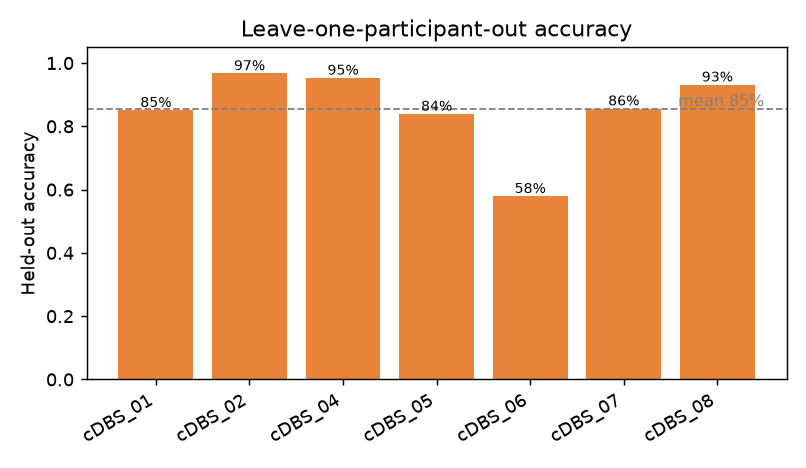
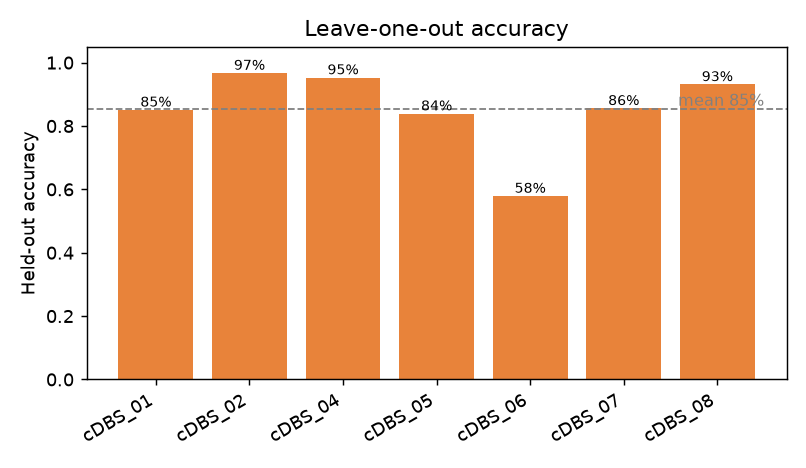
Solved small bug, Readme update, AUC details adjusted

diff --git a/ml/make_figures.py b/ml/make_figures.py
@@ -8,13 +8,14 @@ Generate model-statistics figures for the README. Run AFTER train.py:
     ml/.venv/bin/python ml/make_figures.py
 
 Produces (in ml/figures/):
-  - confusion_matrix.png      pooled leave-one-participant-out (LOPO) confusion
+  - confusion_matrix.png      pooled leave-one-out (LOO) confusion
   - per_participant_accuracy.png
-  - roc_curve.png             pooled LOPO ROC + AUC
+  - roc_curve.png             pooled LOO ROC + AUC with a 95% bootstrap CI band
   - feature_importances.png   RandomForest importances (model trained on all data)
 
-LOPO = the realistic "new patient" evaluation: each participant is held out in
-turn, the model trains on the rest, and predictions are pooled.
+LOO = leave-one-out cross-validation: each participant is held out in turn, the
+model trains on the rest, and predictions are pooled. This reflects the realistic
+"new patient" scenario.
 """
 
 import os
@@ -23,7 +24,7 @@ import matplotlib
 
 matplotlib.use("Agg")  # headless
 import matplotlib.pyplot as plt
-from sklearn.metrics import confusion_matrix, accuracy_score, roc_curve, auc
+from sklearn.metrics import confusion_matrix, accuracy_score, roc_curve, auc, roc_auc_score
 
 # Reuse the exact data loader + model from the training script.
 from train import load, make_model, LABELS
@@ -31,13 +32,15 @@ from train import load, make_model, LABELS
 HERE = os.path.dirname(__file__)
 FIG_DIR = os.path.join(HERE, "figures")
 
-TREMOR_IDX = LABELS.index("tremor")
 ACCENT = "#E8833A"   # tremor (orange, matches the app)
 REST = "#3FA34D"     # rest (green, matches the app)
 
+N_BOOTSTRAP = 2000
+RNG = np.random.default_rng(42)
 
-def run_lopo(X, y, groups):
-    """Pooled LOPO predictions, probabilities, and per-participant accuracy."""
+
+def run_loo(X, y, groups):
+    """Pooled leave-one-out predictions, probabilities, and per-participant acc."""
     true, pred, prob = [], [], []
     per_participant = {}
     for pid in sorted(np.unique(groups)):
@@ -51,6 +54,21 @@ def run_lopo(X, y, groups):
     return np.array(true), np.array(pred), np.array(prob), per_participant
 
 
+def auc_with_ci(y_bin, prob):
+    """Point AUC plus a percentile bootstrap 95% confidence interval."""
+    point = roc_auc_score(y_bin, prob)
+    n = len(y_bin)
+    scores = []
+    for _ in range(N_BOOTSTRAP):
+        idx = RNG.integers(0, n, n)
+        # Skip degenerate resamples that contain a single class.
+        if len(np.unique(y_bin[idx])) < 2:
+            continue
+        scores.append(roc_auc_score(y_bin[idx], prob[idx]))
+    lo, hi = np.percentile(scores, [2.5, 97.5])
+    return point, lo, hi
+
+
 def fig_confusion(true, pred):
     cm = confusion_matrix(true, pred, labels=LABELS)
     cm_norm = cm / cm.sum(axis=1, keepdims=True)
@@ -59,7 +77,7 @@ def fig_confusion(true, pred):
     ax.set_xticks(range(len(LABELS)), LABELS)
     ax.set_yticks(range(len(LABELS)), LABELS)
     ax.set_xlabel("Predicted"); ax.set_ylabel("True")
-    ax.set_title("Confusion matrix (pooled LOPO)")
+    ax.set_title("Confusion matrix (pooled LOO)")
     for i in range(len(LABELS)):
         for j in range(len(LABELS)):
             ax.text(j, i, f"{cm[i, j]}\n{cm_norm[i, j]:.0%}",
@@ -79,7 +97,7 @@ def fig_per_participant(per_participant):
     ax.text(len(pids) - 0.5, mean + 0.01, f"mean {mean:.0%}",
             ha="right", color="gray", fontsize=9)
     ax.set_ylim(0, 1.05); ax.set_ylabel("Held-out accuracy")
-    ax.set_title("Leave-one-participant-out accuracy")
+    ax.set_title("Leave-one-out accuracy")
     for b, a in zip(bars, accs):
         ax.text(b.get_x() + b.get_width() / 2, a + 0.01, f"{a:.0%}",
                 ha="center", fontsize=8)
@@ -90,14 +108,34 @@ def fig_per_participant(per_participant):
 def fig_roc(true, prob):
     y_bin = (true == "tremor").astype(int)
     fpr, tpr, _ = roc_curve(y_bin, prob)
-    roc_auc = auc(fpr, tpr)
-    fig, ax = plt.subplots(figsize=(4.4, 4.0))
-    ax.plot(fpr, tpr, color=ACCENT, lw=2, label=f"AUC = {roc_auc:.3f}")
+    point, lo, hi = auc_with_ci(y_bin, prob)
+
+    # Bootstrap a confidence band for the ROC curve itself.
+    mean_fpr = np.linspace(0, 1, 100)
+    n = len(y_bin)
+    tprs = []
+    for _ in range(N_BOOTSTRAP):
+        idx = RNG.integers(0, n, n)
+        if len(np.unique(y_bin[idx])) < 2:
+            continue
+        bf, bt, _ = roc_curve(y_bin[idx], prob[idx])
+        interp = np.interp(mean_fpr, bf, bt)
+        interp[0] = 0.0
+        tprs.append(interp)
+    tpr_lo = np.percentile(tprs, 2.5, axis=0)
+    tpr_hi = np.percentile(tprs, 97.5, axis=0)
+
+    fig, ax = plt.subplots(figsize=(4.6, 4.2))
+    ax.fill_between(mean_fpr, tpr_lo, tpr_hi, color=ACCENT, alpha=0.25,
+                    label="95% CI")
+    ax.plot(fpr, tpr, color=ACCENT, lw=2,
+            label=f"AUC = {point:.3f}\n(95% CI {lo:.3f}–{hi:.3f})")
     ax.plot([0, 1], [0, 1], ls="--", color="gray", lw=1)
     ax.set_xlabel("False positive rate"); ax.set_ylabel("True positive rate")
-    ax.set_title("ROC — tremor vs rest (pooled LOPO)")
-    ax.legend(loc="lower right")
+    ax.set_title("ROC — tremor vs rest (pooled LOO)")
+    ax.legend(loc="lower right", fontsize=9)
     _save(fig, "roc_curve.png")
+    return point, lo, hi
 
 
 def fig_importances(X, y, feat_cols):
@@ -126,13 +164,14 @@ def _save(fig, name):
 def main():
     os.makedirs(FIG_DIR, exist_ok=True)
     _, X, y, groups, feat_cols = load()
-    print("Running LOPO for figures ...")
-    true, pred, prob, per_participant = run_lopo(X, y, groups)
+    print("Running LOO for figures ...")
+    true, pred, prob, per_participant = run_loo(X, y, groups)
     fig_confusion(true, pred)
     fig_per_participant(per_participant)
-    fig_roc(true, prob)
+    point, lo, hi = fig_roc(true, prob)
     fig_importances(X, y, feat_cols)
-    print(f"\nPooled LOPO accuracy: {accuracy_score(true, pred):.3f}")
+    print(f"\nPooled LOO accuracy: {accuracy_score(true, pred):.3f}")
+    print(f"Pooled LOO AUC:      {point:.3f} (95% CI {lo:.3f}–{hi:.3f})")
 
 
 if __name__ == "__main__":

diff --git a/ml/train.py b/ml/train.py
@@ -4,10 +4,10 @@ train.py
 Train a tremor-vs-rest classifier on the windowed features produced by
 prepare_data.py, then export it as a Core ML model for the watchOS app.
 
-Evaluation: Leave-One-Participant-Out (LOPO) cross-validation. Windows from the
-same person (and from the two wrists of that person) are correlated, so a random
-split would leak and inflate accuracy. LOPO reports how well the model
-generalises to a NEW patient - the realistic deployment scenario.
+Evaluation: leave-one-out (LOO) cross-validation, holding out one participant per
+fold. Windows from the same person (and from the two wrists of that person) are
+correlated, so a random split would leak and inflate accuracy. LOO reports how
+well the model generalises to a NEW patient - the realistic deployment scenario.
 
 The final model is then retrained on ALL participants and converted to
 TremorClassifier.mlmodel via coremltools.
@@ -52,9 +52,9 @@ def make_model():
     )
 
 
-def lopo_cv(X, y, groups):
-    """Leave-one-participant-out cross-validation."""
-    print("=== Leave-One-Participant-Out CV ===")
+def loo_cv(X, y, groups):
+    """Leave-one-out cross-validation (one participant held out per fold)."""
+    print("=== Leave-One-Out (LOO) CV ===")
     accs = []
     agg_true, agg_pred = [], []
     for pid in sorted(np.unique(groups)):
@@ -68,7 +68,7 @@ def lopo_cv(X, y, groups):
         agg_true.extend(y[test])
         agg_pred.extend(pred)
         print(f"  hold-out {pid}: acc={acc:.3f}  (n={test.sum()})")
-    print(f"\nMean LOPO accuracy: {np.mean(accs):.3f} +/- {np.std(accs):.3f}")
+    print(f"\nMean LOO accuracy: {np.mean(accs):.3f} +/- {np.std(accs):.3f}")
     print("\nPooled confusion matrix (rows=true, cols=pred) [rest, tremor]:")
     print(confusion_matrix(agg_true, agg_pred, labels=LABELS))
     print("\nPooled classification report:")
@@ -91,8 +91,8 @@ def export_coreml(model, feat_cols, cv_mean, cv_std):
     )
     for c in feat_cols:
         coreml_model.input_description[c] = f"window feature: {c}"
-    coreml_model.user_defined_metadata["lopo_cv_accuracy"] = f"{cv_mean:.4f}"
-    coreml_model.user_defined_metadata["lopo_cv_std"] = f"{cv_std:.4f}"
+    coreml_model.user_defined_metadata["loo_cv_accuracy"] = f"{cv_mean:.4f}"
+    coreml_model.user_defined_metadata["loo_cv_std"] = f"{cv_std:.4f}"
     coreml_model.user_defined_metadata["window_seconds"] = "2.0"
     coreml_model.user_defined_metadata["sample_rate_hz"] = "50"
     coreml_model.user_defined_metadata["input_signal"] = "userAcceleration (g)"
@@ -105,7 +105,7 @@ def main():
     print(f"Loaded {len(df)} windows, {len(feat_cols)} features, "
           f"{len(np.unique(groups))} participants.\n")
 
-    cv_mean, cv_std = lopo_cv(X, y, groups)
+    cv_mean, cv_std = loo_cv(X, y, groups)
 
     print("\n=== Training final model on all data ===")
     final = make_model()
@@ -127,8 +127,8 @@ def main():
             "window_seconds": 2.0,
             "sample_rate_hz": 50,
             "input_signal": "userAcceleration (g), gravity removed",
-            "lopo_cv_accuracy": cv_mean,
-            "lopo_cv_std": cv_std,
+            "loo_cv_accuracy": cv_mean,
+            "loo_cv_std": cv_std,
             "feature_importances": {n: float(v) for n, v in imp},
         }, f, indent=2)
     print(f"Saved -> {META_OUT}")

diff --git a/ml/README.md b/ml/README.md
@@ -47,16 +47,17 @@ ml/.venv/bin/python ml/make_figures.py
   remove gravity/drift. This yields `userAcceleration`-equivalent dynamic
   acceleration, the same quantity CoreMotion gives on the watch.
 - **Windows:** 2 s (100 samples), 1 s hop (50 % overlap).
-- **cDBS_03 skipped** — only x/y channels, no z. cDBS_09 has no shared data.
+- **Patients skipped** — cDBS_03 only x/y channels, no z. cDBS_08 and 09 have no shared data.
 - **Model:** RandomForest (200 trees, depth 12), `class_weight="balanced"`.
 
 ## Performance
 
-Leave-One-Participant-Out CV: **~0.85 mean accuracy** (generalisation to a new
-patient). Per-patient range 0.58–0.97 — the hardest patient (cDBS_06) had
-weaker/low-amplitude tremor. Top features are amplitude-based (`z_rms`, `y_rms`,
-`mag_rms`), consistent with tremor being a large oscillation, plus tremor-band
-spectral ratios.
+Leave-one-out (LOO) CV, holding out one participant per fold: **0.85 mean
+per-patient accuracy** (0.83 pooled), ROC **AUC 0.908 (95% CI 0.900–0.916)** —
+i.e. generalisation to a new patient. Per-patient range 0.58–0.97; the hardest
+patient (cDBS_06) had weaker/low-amplitude tremor. Top features are
+amplitude-based (`z_rms`, `y_rms`, `mag_rms`), consistent with tremor being a
+large oscillation, plus tremor-band spectral ratios. Figures: `make_figures.py`.
 
 ## Deploying on the watch — already wired
 

diff --git a/README.md b/README.md
@@ -68,10 +68,11 @@ dataset's own license/terms from the Oxford data portal.
 
 ## Model performance
 
-Evaluated with **leave-one-participant-out (LOPO)** cross-validation — each
-patient is held out in turn, so these numbers reflect generalisation to a *new*
-patient. Pooled LOPO accuracy is **~0.83** (mean per-patient **~0.85**), ROC
-**AUC ≈ 0.93**. The hardest case (cDBS_06) had weak, low-amplitude tremor.
+Evaluated with **leave-one-out (LOO)** cross-validation — each patient is held
+out in turn, so these numbers reflect generalisation to a *new* patient. Pooled
+LOO accuracy is **0.83** (mean per-patient **0.85**), ROC
+**AUC = 0.908 (95% CI 0.900–0.916)**. The hardest case (cDBS_06) had weak,
+low-amplitude tremor.
 
 | | |
 |:---:|:---:|